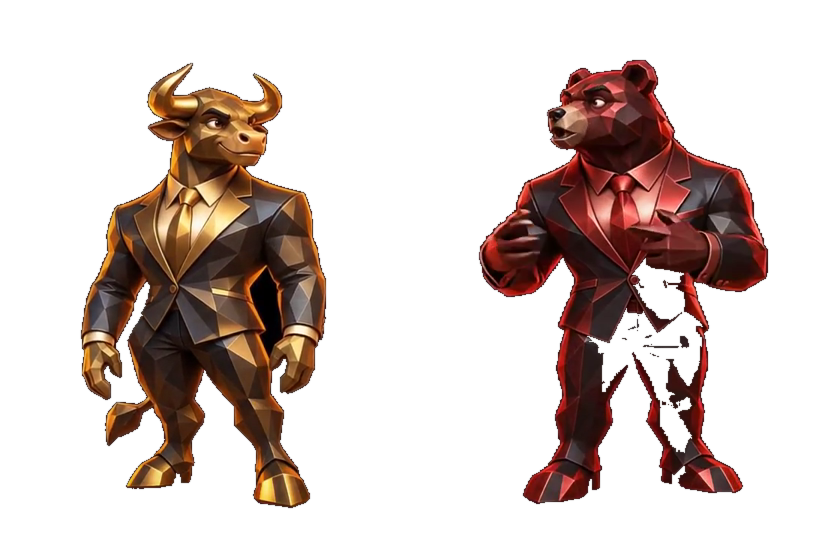
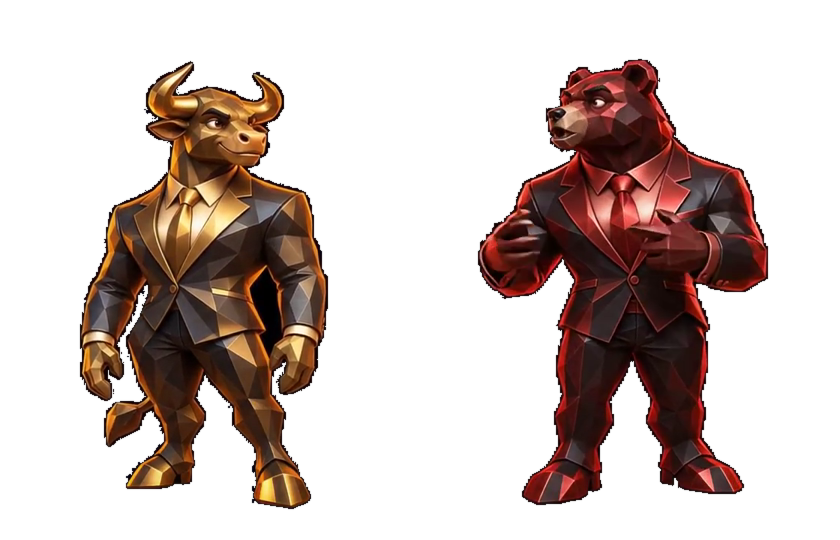
Preserve dark character details and supersede obsolete renders

diff --git a/scripts/weekly_video/visuals.py b/scripts/weekly_video/visuals.py
@@ -321,7 +321,7 @@ def remove_debate_background(clip):
     # Remove only near-black pixels connected to the outer background;
     # preserve enclosed dark suit details rather than keying every black pixel.
     rgb=np.asarray(clip)[:,:,:3]
-    dark=Image.fromarray(np.where(rgb.max(axis=2)<42,255,0).astype(np.uint8)).copy()
+    dark=Image.fromarray(np.where(rgb.max(axis=2)<12,255,0).astype(np.uint8)).copy()
     for point in [(0,0),(clip.width-1,0),(0,clip.height-1),(clip.width-1,clip.height-1)]:
         if dark.getpixel(point)==255:ImageDraw.floodfill(dark,point,128)
     alpha=Image.fromarray(np.where(np.asarray(dark)==128,0,255).astype(np.uint8)).filter(ImageFilter.GaussianBlur(.45))
